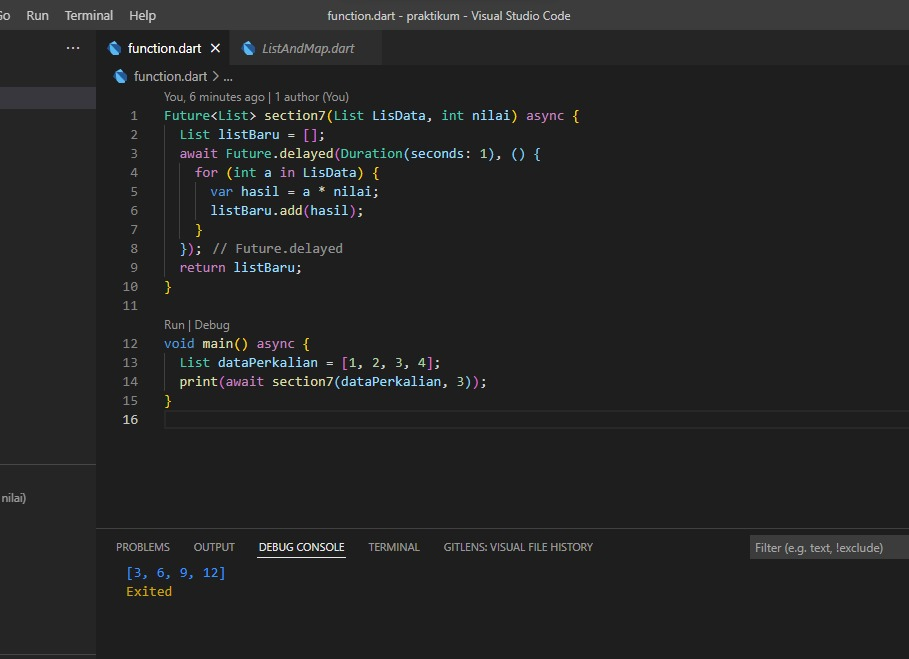
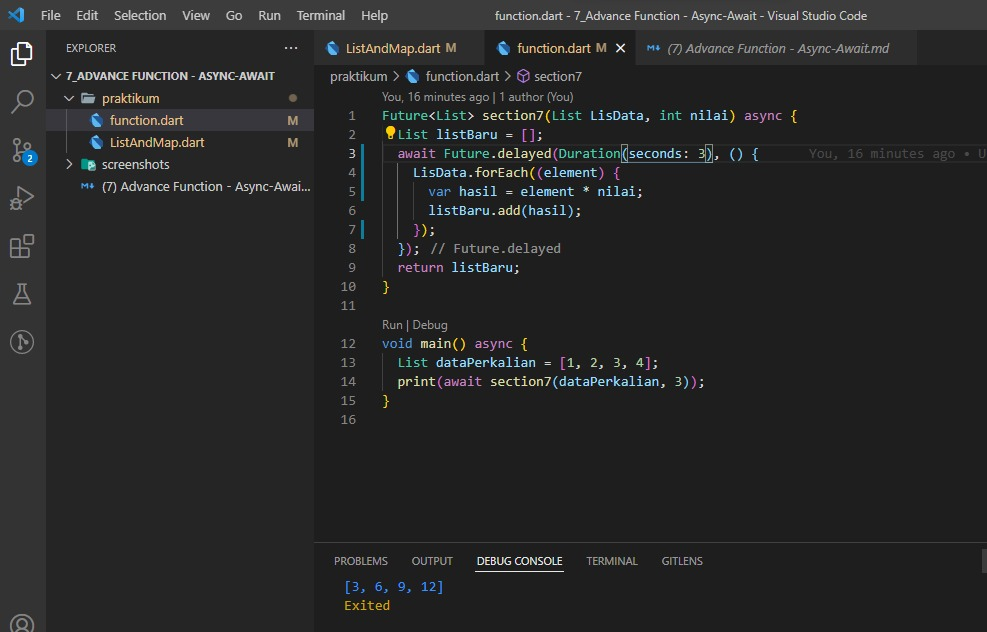
update section 7

diff --git a/7_Advance Function - Async-Await/praktikum/ListAndMap.dart b/7_Advance Function - Async-Await/praktikum/ListAndMap.dart
@@ -1,21 +1,22 @@
 void main() {
   // List hewan yang berisi nama-nama hesan
-  var hewan = [
+  var name = [
     [
-      'anjing',
-      'ayam',
+      'akil',
+      12,
     ],
-    ['semut', 'ular'],
+    ['udin', 14],
+    ['ucup', 14],
   ];
 
 // Map nameHewan yang isi key tersebut dari list
-  var nameHewan = {
-    'NameHewan': hewan,
-  };
+  var mapName = {};
 
-  for (var i in nameHewan['NameHewan']!) {
-    for (var j in i) {
-      print(j);
+  for (var i in name) {
+    for (var p in i) {
+      mapName[i[0]] = p;
     }
   }
+
+  print(mapName);
 }

diff --git a/7_Advance Function - Async-Await/praktikum/function.dart b/7_Advance Function - Async-Await/praktikum/function.dart
@@ -1,10 +1,10 @@
 Future<List> section7(List LisData, int nilai) async {
   List listBaru = [];
-  await Future.delayed(Duration(seconds: 1), () {
-    for (int a in LisData) {
-      var hasil = a * nilai;
+  await Future.delayed(Duration(seconds: 3), () {
+    LisData.forEach((element) {
+      var hasil = element * nilai;
       listBaru.add(hasil);
-    }
+    });
   });
   return listBaru;
 }
